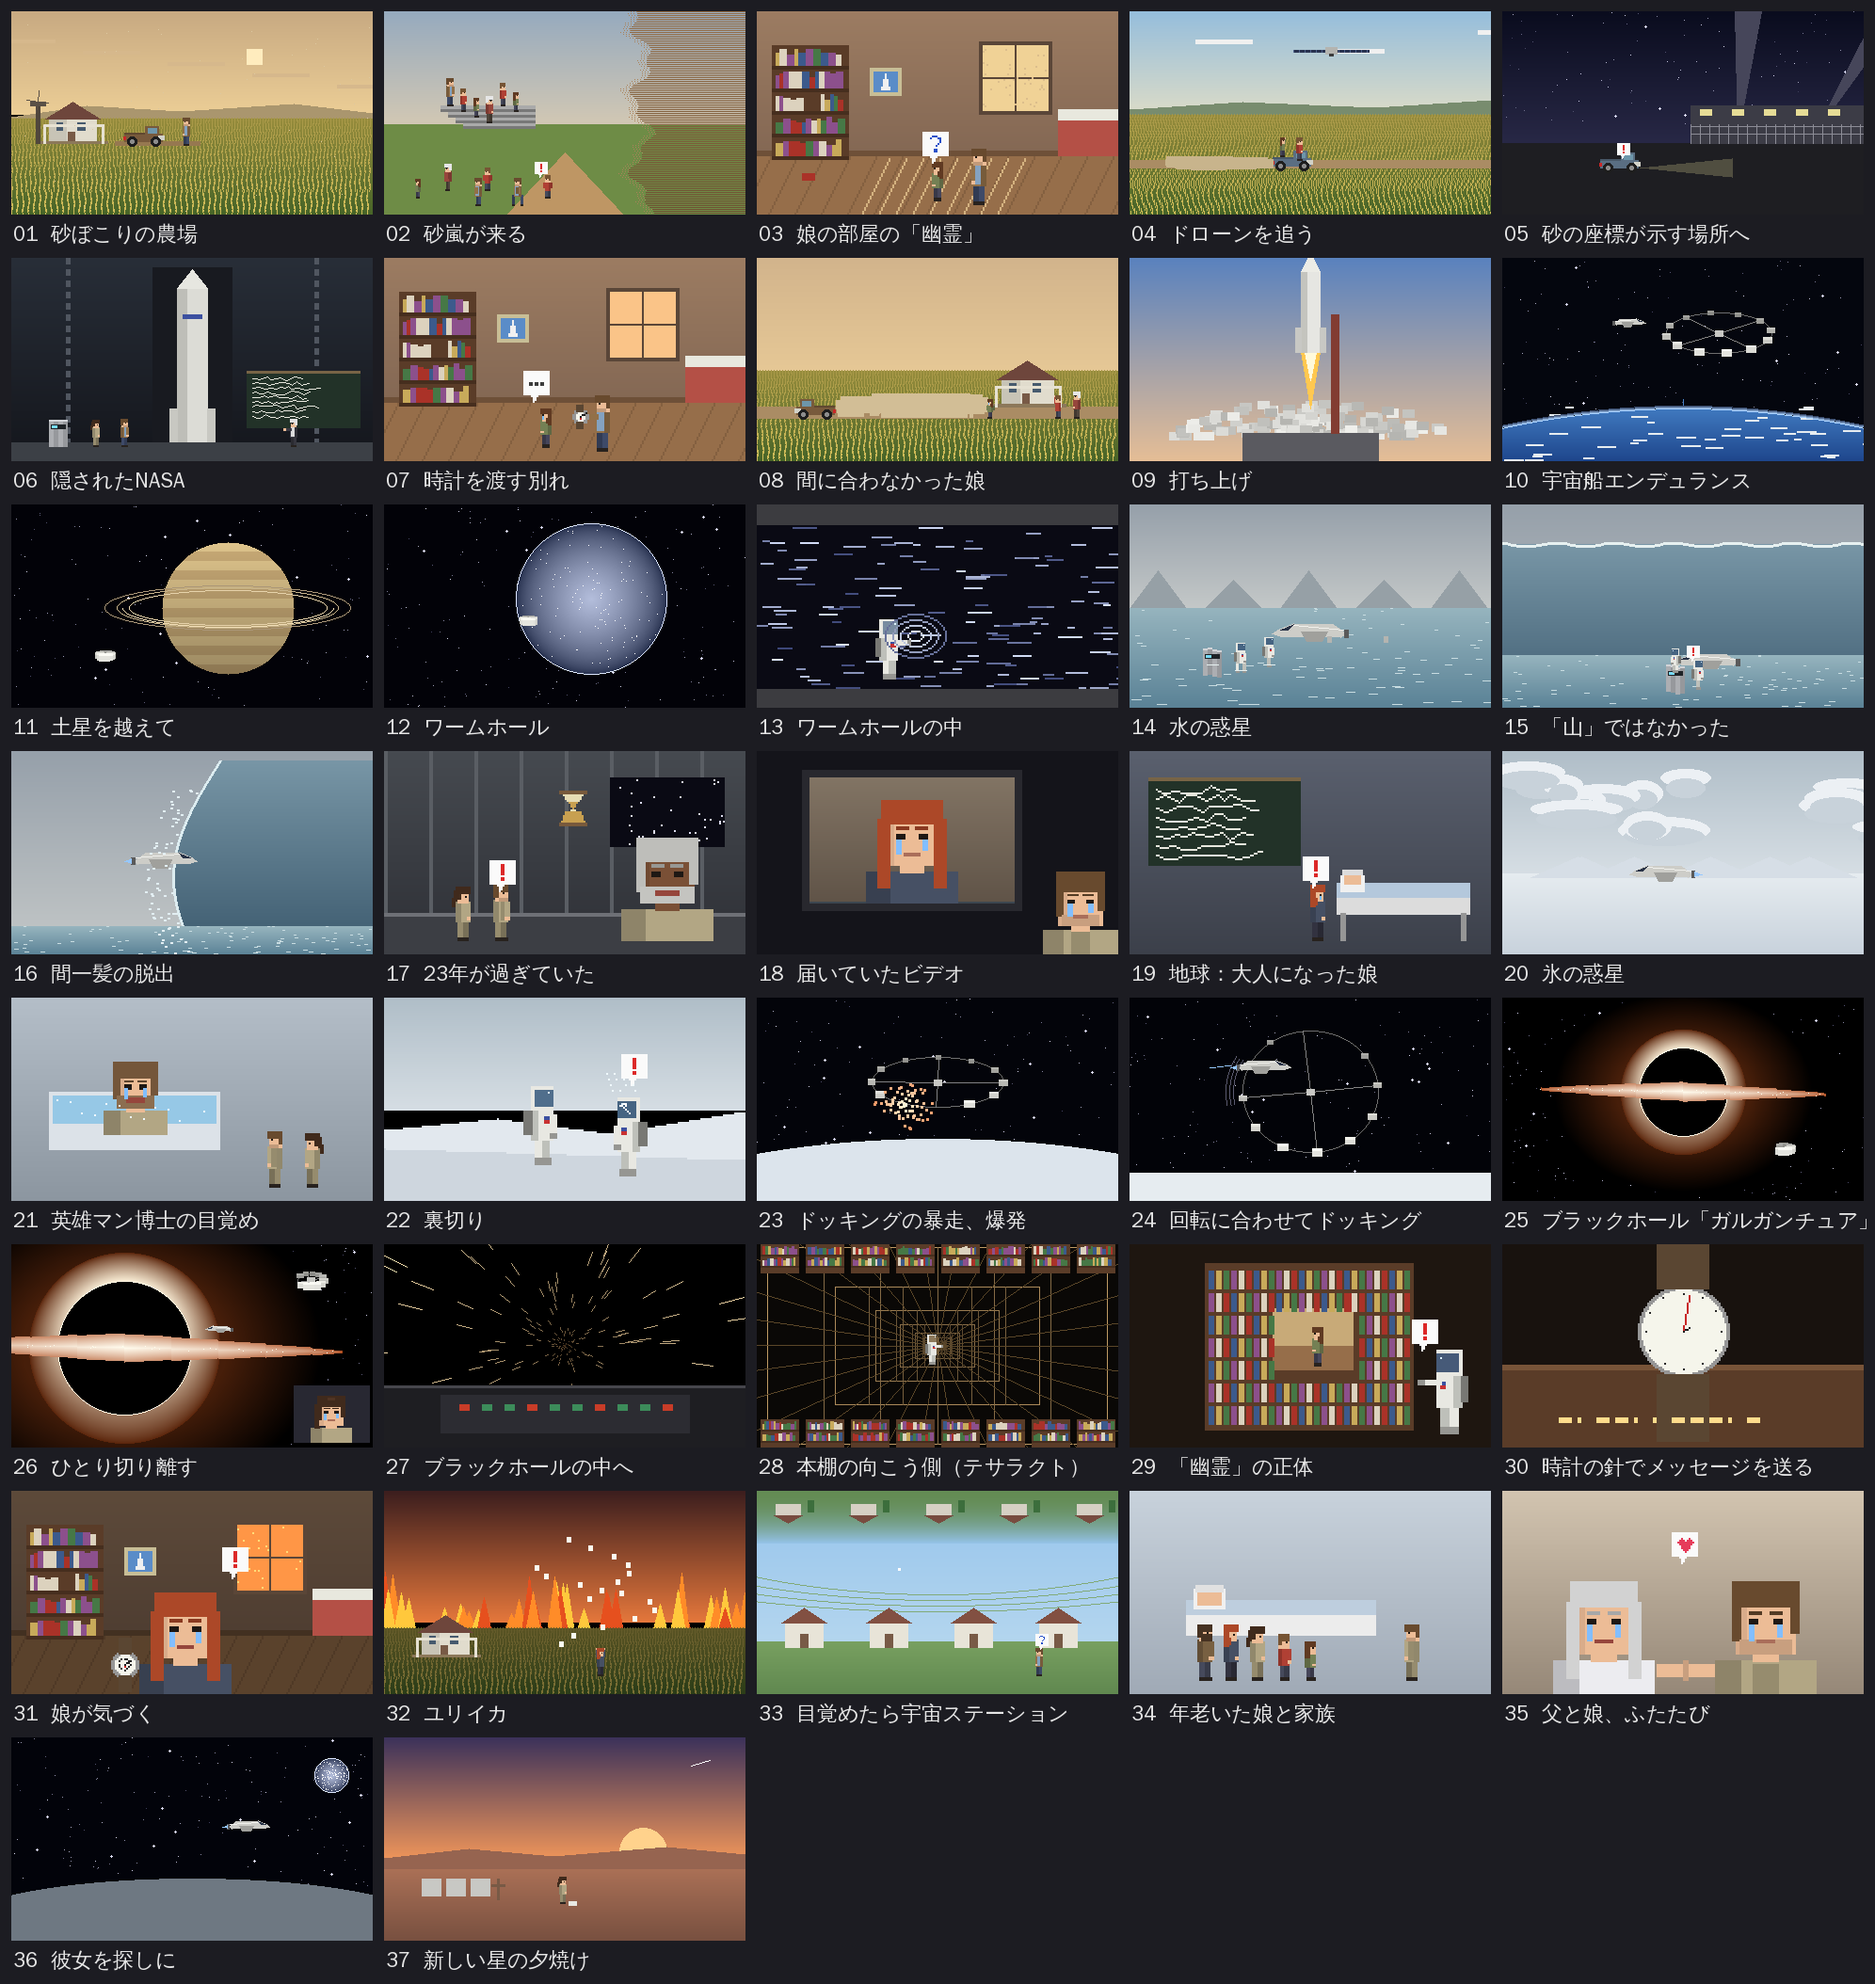
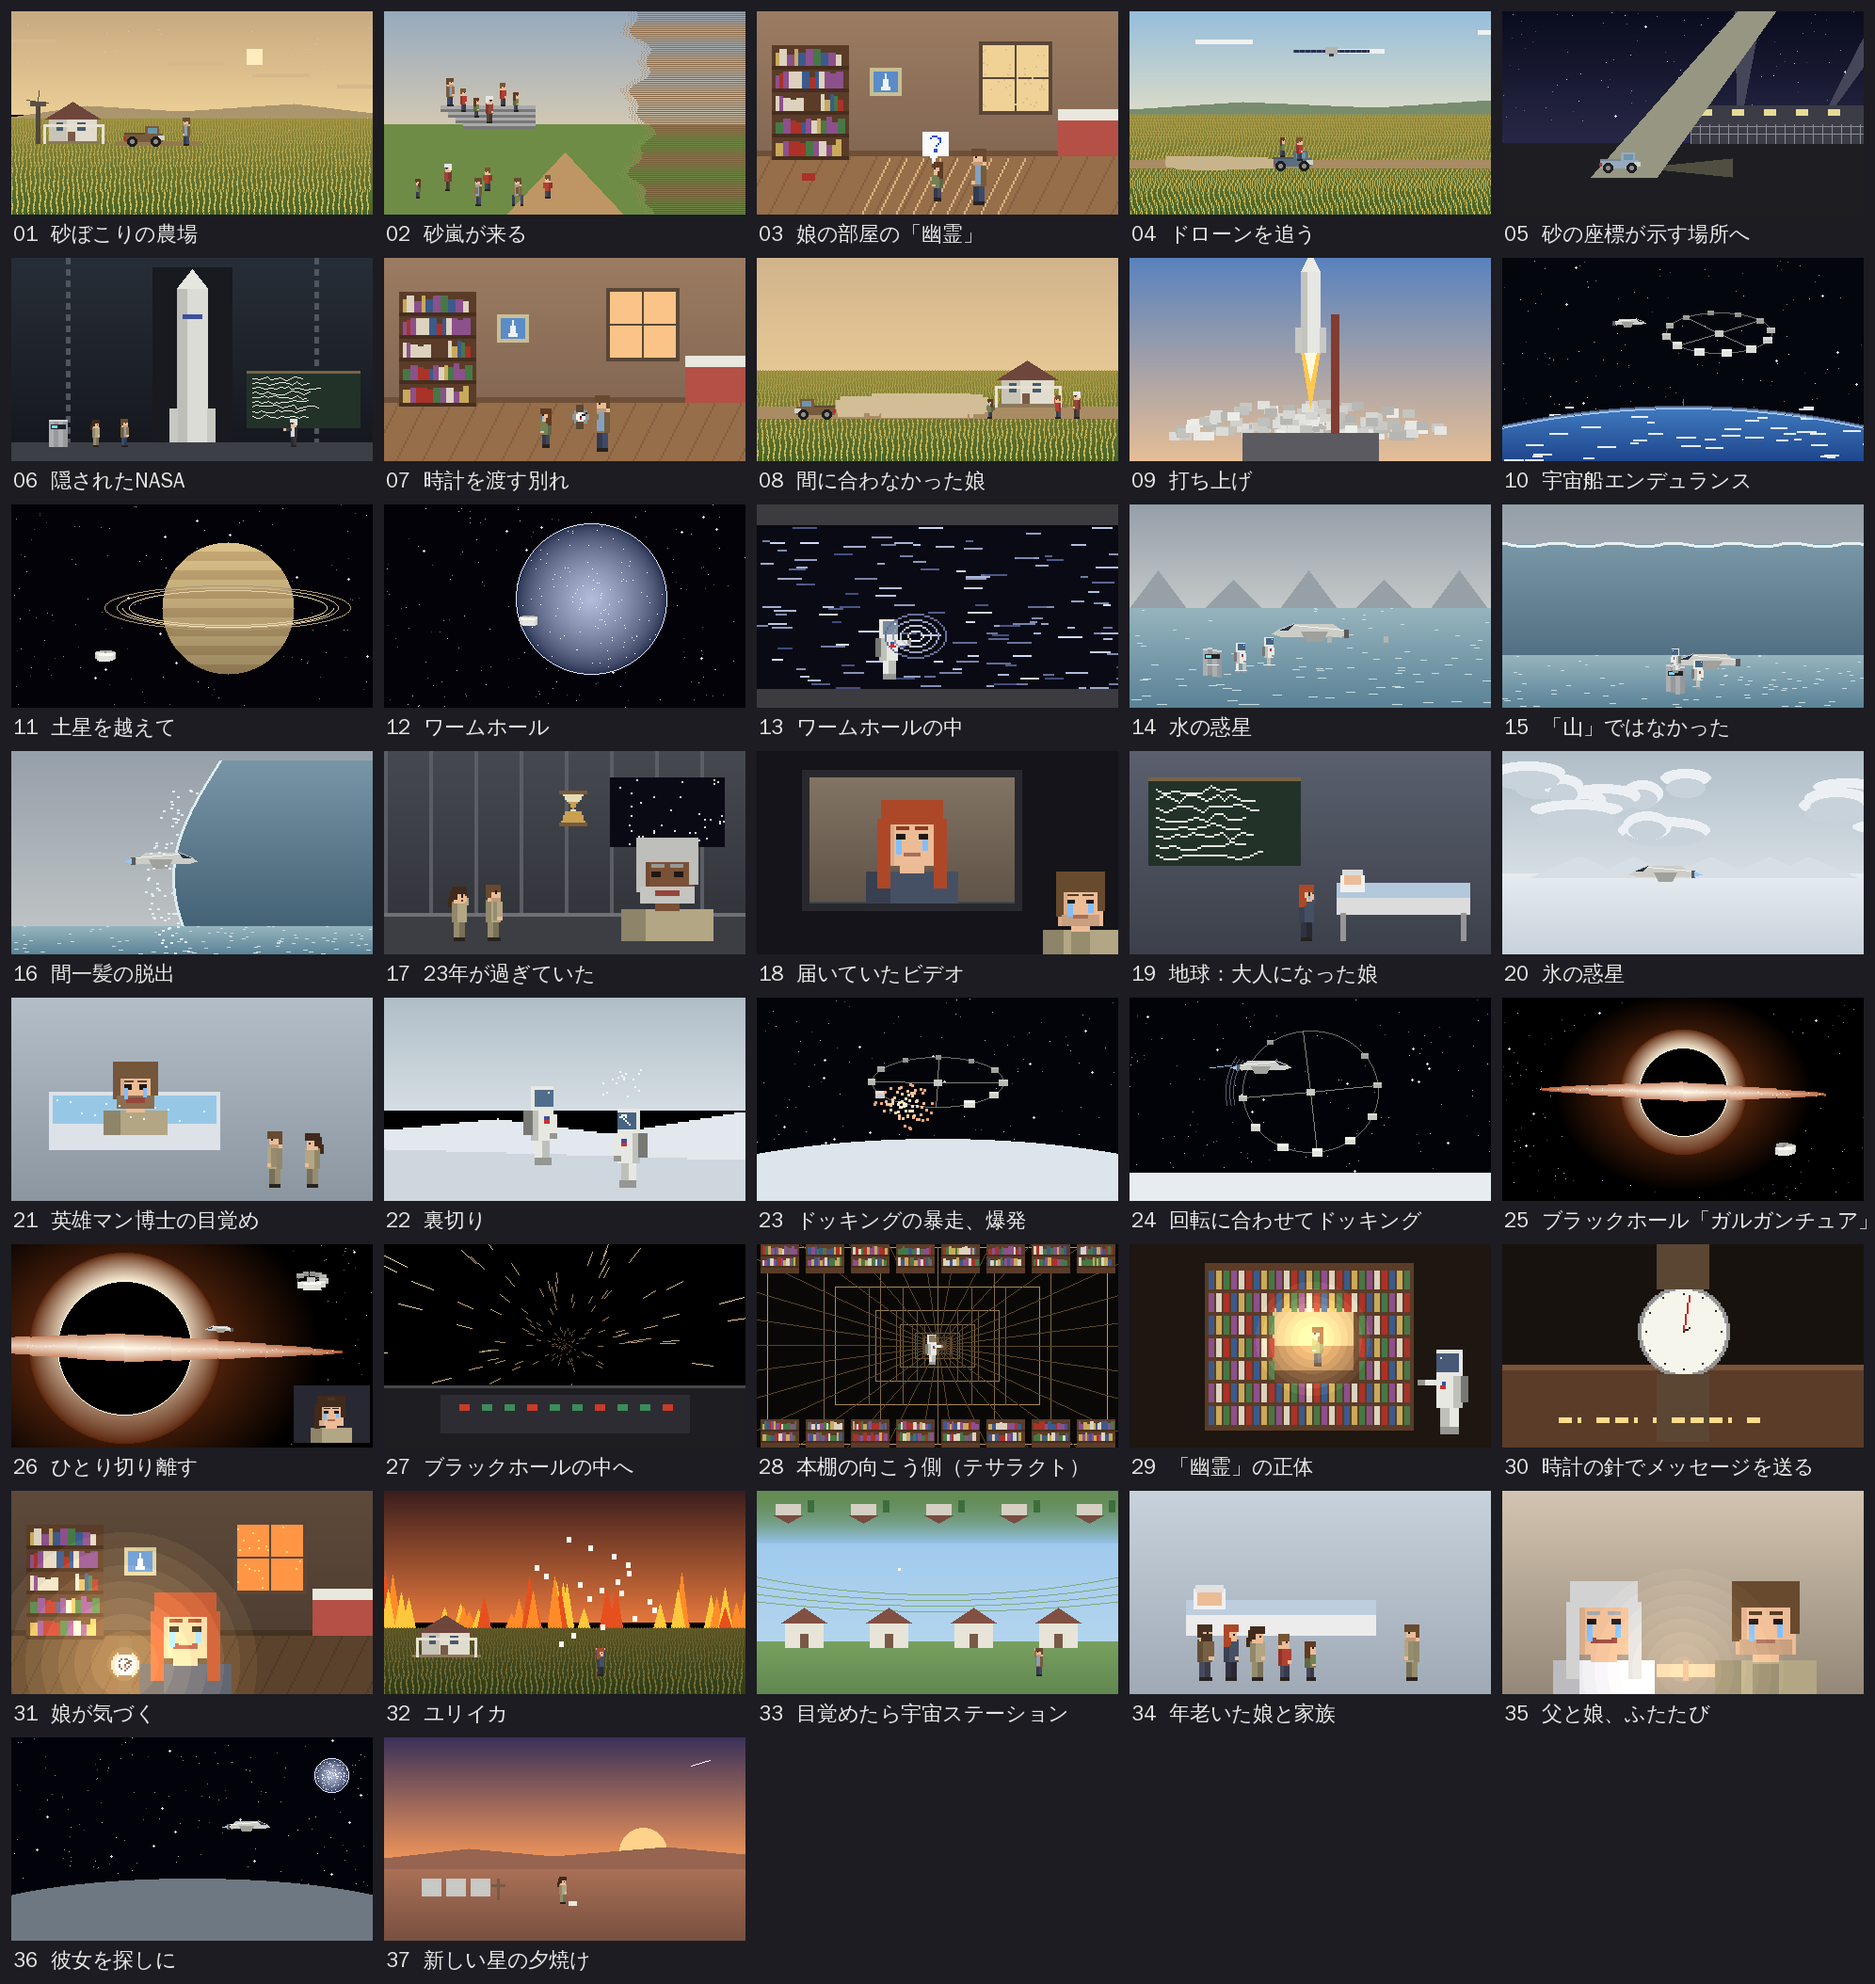
Interstellar: drop symbol bubbles for expressions, light, and camera shake
Claude-Session: https://claude.ai/code/session_0186sLp4kup135AngXnfFUNM

diff --git a/interstellar/common.py b/interstellar/common.py
@@ -56,7 +56,7 @@ CAST = {
     'donald':  dict(hair=(230, 230, 230), top=(150, 70, 60), bot=(80, 70, 60), h=28, glasses=True),
 }
 
-def person(d, x, y, who='cooper', face=1, pose='stand', f=0, beard=None, cry=False, tilt=0):
+def person(d, x, y, who='cooper', face=1, pose='stand', f=0, beard=None, cry=False, tilt=0, shock=False):
     """x = centre, y = feet."""
     c = CAST[who]; h = c['h']; s = h / 30
     sk = c.get('skin', SKIN); beard = beard or c.get('beard')
@@ -73,6 +73,9 @@ def person(d, x, y, who='cooper', face=1, pose='stand', f=0, beard=None, cry=Fal
         B(-2, 6, 6, 9, bot); B(4, 0, 6, 6, bot); B(4, 0, 7, 1, (40, 34, 30))
     elif pose == 'lie':
         return lie(d, x, y, who, face)
+    elif pose == 'kneel':
+        y = y + 6 * s; Y = lambda dy: y - dy * s
+        B(-2.5, 0, 4, 3, bot); B(-2.5, 3, -0.5, 6, bot)
     else:
         B(-2.5, 0, -0.5, 11, bot); B(0.5, 0, 2.5, 11, shade(bot, .8))
         B(-2.5, 0, -0.5, 1, (40, 34, 30)); B(0.5, 0, 3, 1, (40, 34, 30))
@@ -84,6 +87,10 @@ def person(d, x, y, who='cooper', face=1, pose='stand', f=0, beard=None, cry=Fal
         B(2.5, 19, 9, 17, top); B(9, 19, 10.5, 17, sk)
     elif pose == 'wave':
         B(2.5, 20, 4.5, 28, top); B(3, 28, 4.5, 30, sk)
+    elif pose == 'cover':
+        B(2.5, 20, 4.5, 23, top); B(1.5, 22.5, 4, 24.5, sk)
+    elif pose == 'shade':
+        B(2.5, 20, 4.5, 27, top); B(1.5, 27, 4.5, 28.5, sk)
     elif pose == 'arms_up':
         B(-5, 20, -3.5, 28, top); B(3.5, 20, 5, 28, top); B(-5, 28, -3.5, 30, sk); B(3.5, 28, 5, 30, sk)
     elif pose == 'run':
@@ -98,6 +105,7 @@ def person(d, x, y, who='cooper', face=1, pose='stand', f=0, beard=None, cry=Fal
     if c.get('long'): B(-3.5, hy - 3, -1.5, hy + 6, hair); B(-2, hy - 2, -1, hy + 1, hair)
     if c.get('ponytail'): B(-5, hy + 1, -3.5, hy + 6, hair); B(-5.5, hy - 2, -4.5, hy + 2, hair)
     d.point((X(1.6), Y(hy + 3.6)), fill=(30, 24, 20))
+    if shock: d.point((X(1.6), Y(hy + 4.6)), fill=(30, 24, 20)); d.point((X(1.8), Y(hy + 1)), fill=(90, 40, 40))
     if c.get('glasses'): B(0.5, hy + 4.2, 3, hy + 4.2, (40, 40, 40))
     if c.get('stubble') and not beard: B(-1, hy, 3, hy + 1, shade(sk, .82))
     if beard: B(-1.5, hy - 0.5, 3, hy + 2.5, beard)
@@ -316,7 +324,7 @@ def zroom(d, light=(240, 210, 150), dark=False, dust=0.0, t=0.0):
             x = 120 + r.randrange(34); y = 18 + (r.randrange(34) + t * 10 * r.random()) % 34
             d.point((x, y), fill=(220, 190, 140))
 
-def portrait(d, cx, by, who='cooper', s=1, cry=False, beard=None, grey=False, smile=False):
+def portrait(d, cx, by, who='cooper', s=1, cry=False, beard=None, grey=False, smile=False, shock=False, light=0.0):
     """Head-and-shoulders bust. cx = centre, by = bottom edge. ~ 26*s tall."""
     c = CAST[who]; hair = (210, 210, 210) if grey else c['hair']
     sk = c.get('skin', SKIN); beard = beard or c.get('beard')
@@ -332,7 +340,28 @@ def portrait(d, cx, by, who='cooper', s=1, cry=False, beard=None, grey=False, sm
     B(-4, 20, -1, 19.5, shade(hair, .8)); B(1, 20, 4, 19.5, shade(hair, .8))
     if c.get('glasses'): B(-5, 19, -1, 16, (40, 40, 40)); B(1, 19, 5, 16, (40, 40, 40)); B(-4, 18.5, -2, 16.5, (200, 220, 230)); B(2, 18.5, 4, 16.5, (200, 220, 230)); B(-1, 18, 1, 17.5, (40, 40, 40))
     if c.get('stubble') and not beard: B(-6, 10, 6, 13, shade(sk, .85))
-    if smile: B(-2, 13, 2, 12.5, (150, 70, 60))
+    if shock:
+        B(-5, 19.5, -1, 16, (250, 250, 250)); B(1, 19.5, 5, 16, (250, 250, 250))
+        B(-3.5, 18.5, -2, 17, (30, 24, 20)); B(2.5, 18.5, 4, 17, (30, 24, 20))
+        B(-4, 21.5, -1, 21, shade(hair, .8)); B(1, 21.5, 4, 21, shade(hair, .8))
+        B(-1.5, 14, 1.5, 11.5, (90, 40, 40))
+    elif smile: B(-3, 13, 3, 12.5, (150, 70, 60)); B(-3, 13.5, -2, 13, (150, 70, 60)); B(2, 13.5, 3, 13, (150, 70, 60))
     else: B(-2, 13, 2, 12.5, (170, 110, 90))
     if beard: B(-7, 10, 7, 14, beard); B(-3, 13, 3, 12, (150, 70, 60))
     if cry: B(-4, 16.5, -3, 13, (130, 190, 255)); B(3, 16.5, 4, 14, (130, 190, 255))
+    if light: B(-7, 25, 7, 10, None) if False else None
+
+
+def glow(im, cx, cy, r, col=(255, 220, 150), k=0.5):
+    """Soft additive light pool (used for 'realisation' moments instead of symbols)."""
+    from PIL import ImageChops
+    g = Image.new('RGB', im.size, (0, 0, 0)); gd = ImageDraw.Draw(g)
+    for n in range(8, 0, -1):
+        rr = r * n / 8
+        gd.ellipse([cx - rr, cy - rr, cx + rr, cy + rr], fill=shade(col, k * (1 - n / 9)))
+    return ImageChops.add(im, g)
+
+def shake(im, amt, seed):
+    if amt <= 0: return im
+    r = random.Random(seed); dx, dy = r.randint(-amt, amt), r.randint(-amt, amt)
+    out = Image.new('RGB', im.size, (0, 0, 0)); out.paste(im, (dx, dy)); return out

diff --git a/interstellar/act4.py b/interstellar/act4.py
@@ -31,8 +31,9 @@ def s29_behind(t):                    # behind the shelf: the "ghost" was him
     push = clamp((t - 2) / 1.5)
     R(d, 120 - push * 6, 26, 123 - push * 6, 35, (170, 50, 40))
     astro(d, 170, 100, -1, 'reach', visor=(70, 90, 120), s=1.4)
-    if t > 4: bubble(d, 150, 40, '!')
-    return up(im)
+    im = up(im)
+    if t > 4: im = glow(im, 194, 100, 90 * clamp((t - 4) / 1.5), (255, 210, 130), 0.55)
+    return im
 
 def s30_watch(t):                     # the second hand ticks in Morse
     im, d = zcanvas((24, 18, 14))
@@ -52,10 +53,11 @@ def s31_eureka(t):                    # grown Murph understands
     zroom(d, light=(255, 150, 70), dark=True)
     r = random.Random(int(t * 8))
     for k in range(20): d.point((120 + r.randrange(34), 18 + r.randrange(34)), fill=(255, 220, 120))
-    portrait(d, 92, 108, 'murphA', 2, cry=t > 3, smile=t > 6)
+    portrait(d, 92, 108, 'murphA', 2, cry=t > 3, smile=t > 6, shock=3 < t <= 6)
     watch(d, 60, 92, 5, ang=t * 4)
-    if t > 4: bubble(d, 112, 30, '!')
-    return up(im)
+    im = up(im)
+    if t > 4: im = glow(im, 120, 184, 140 * clamp((t - 4) / 2), (255, 200, 120), 0.5)
+    return im
 
 def s32_papers(t):                    # papers in the air, the corn on fire
     im, d = canvas(); grad(d, 0, 140, (60, 30, 30), (230, 120, 60))
@@ -87,7 +89,7 @@ def s33_station(t):                   # Cooper Station: the world curves overhea
         R(d, x + 16, 152, x + 24, 166, (120, 90, 70))
     bx, by = 60 + t * 30, 150 - math.sin(t * 0.8) * 100
     R(d, bx, by, bx + 2, by + 2, (255, 255, 255))
-    person(d, 300, 196, 'cooper', -1); bubble(d, 296, 152, '?')
+    person(d, 300, 196, 'cooper', -1, 'shade', shock=True)
     return im
 
 def s34_family(t):                    # old Murph, surrounded by her family
@@ -108,8 +110,9 @@ def s35_hands(t):                     # father, younger than his daughter
     portrait(d, 54, 108, 'murphO', 2.2, grey=True, cry=t > 2, smile=t > 6)
     portrait(d, 140, 108, 'cooperS', 2.2, cry=t > 2)
     R(d, 82, 92, 112, 98, SKIN); R(d, 96, 90, 98, 100, shade(SKIN, .85))
-    if t > 7: bubble(d, 90, 22, 'heart')
-    return up(im)
+    im = up(im)
+    if t > 6: im = glow(im, 192, 190, 160 * clamp((t - 6) / 3), (255, 220, 170), 0.22)
+    return im
 
 def s36_depart(t):                    # he takes a ship and goes to find her
     im, d = canvas((2, 3, 10)); stars(d, 36, 200)

diff --git a/interstellar/act2.py b/interstellar/act2.py
@@ -80,7 +80,6 @@ def s15_wave(t):                      # those aren't mountains...
     ranger(d, 250, 170, 1.2, -1)
     astro(d, 190 + t * 3, 196, 1, 'run', f=t * 8)
     tars(d, 150 + t * 4, 200, f=t * 10, walk=True); astro(d, 160 + t * 4, 178, -1, s=0.8)
-    if t > 1: bubble(d, 196, 150, '!')
     return im
 
 def s16_escape(t):                    # liftoff as the wave breaks
@@ -114,8 +113,8 @@ def stars_box(d, x0, y0, x1, y1, seed=2):
 def s17_23years(t):                   # back aboard: Romilly has aged 23 years
     im, d = zcanvas(); ship_interior(d)
     portrait(d, 150, 100, 'romillyO', 2)
-    person(d, 62, 100, 'cooperS', 1); person(d, 42, 100, 'brand', 1)
-    if t > 3: bubble(d, 56, 58, '!')
+    person(d, 62 - clamp((t - 2) / 1) * 4, 100, 'cooperS', 1, shock=t > 2)
+    person(d, 40, 100, 'brand', 1, 'cover' if t > 2.5 else 'stand', shock=t > 2)
     # hourglass
     hx, hy = 100, 30
     d.polygon([(hx - 6, hy - 8), (hx + 6, hy - 8), (hx, hy)], fill=(230, 220, 180)); d.polygon([(hx - 6, hy + 8), (hx + 6, hy + 8), (hx, hy)], fill=(230, 220, 180))
@@ -147,8 +146,7 @@ def s19_murph(t):                     # on Earth: grown-up Murph at the professo
         d.line(pts, fill=(230, 230, 220))
     R(d, 110, 76, 180, 86, (220, 220, 220)); R(d, 110, 70, 180, 77, (180, 200, 220)); R(d, 112, 86, 114, 100, (150, 150, 150)); R(d, 176, 86, 178, 100, (150, 150, 150))
     R(d, 112, 66, 124, 74, (240, 240, 240)); R(d, 114, 64, 122, 70, SKIN); R(d, 113, 63, 123, 65, (220, 220, 220))
-    person(d, 100, 100, 'murphA', 1, cry=t > 5)
-    if t > 6: bubble(d, 92, 56, '!')
+    person(d, 100 - clamp((t - 5) / 1) * 6, 100, 'murphA', 1, 'cover' if t > 5 else 'stand', cry=t > 5, shock=t > 5)
     return up(im)
 
 SCENES = [

diff --git a/interstellar/act1.py b/interstellar/act1.py
@@ -31,7 +31,6 @@ def s02_dust(t):                      # the dust wall over the ball game
     for k in range(6):
         px = 200 + k * 16 - t * 18 * (k % 2 + 1)
         person(d, px, 190 + (k % 3) * 8, ['tom', 'murph', 'cooper', 'donald', 'tom', 'cooper'][k], -1, 'run', f=t * 8 + k)
-    bubble(d, 260 - t * 20, 160, '!')
     return im
 
 def s03_ghost(t):                     # Murph's room: fallen book, dust lines
@@ -76,7 +75,9 @@ def s05_coords(t):                    # following the dust coordinates to a secr
     tx = 40 + t * 8
     truck(d, tx, 170, 1, col=(90, 110, 130), f=t)
     d.polygon([(tx + 42, 166), (tx + 140, 156), (tx + 140, 176)], fill=(80, 78, 64))
-    if t > 6: bubble(d, tx + 18, 140, '!')
+    if t > 6:                                    # caught in a searchlight
+        d.polygon([(250, 0), (tx - 10, 176), (tx + 60, 176), (290, 0)], fill=(150, 150, 130))
+        truck(d, tx, 170, 1, col=(150, 170, 190), f=t)
     return im
 
 def s06_nasa(t):                      # NASA hidden in a silo; the professor's plan
@@ -107,7 +108,6 @@ def s07_goodbye(t):                   # the watch, the turned back
     person(d, 116, 102, 'cooper', -1, 'give' if t < 7 else 'stand')
     if t < 7: watch(d, 104, 84, 2)
     else: watch(d, 176, 54, 2, ang=t)            # left on the bed
-    if t > 2: bubble(d, 74, 60, '...')
     return up(im)
 
 def s08_leave(t):                     # driving off; she runs out too late

diff --git a/interstellar/act3.py b/interstellar/act3.py
@@ -32,11 +32,11 @@ def s22_betrayal(t):                  # on the ridge: Mann turns on Cooper
     d.polygon([(0, 80), (192, 86), (192, 108), (0, 108)], fill=(206, 214, 222))
     shove = clamp((t - 3) / 1.5)
     astro(d, 90 - shove * 6, 88, 1, 'reach' if t < 6 else 'stand', visor=(80, 110, 140), s=1.3)
-    astro(d, 116 + shove * 14, 88 + shove * 6, -1, 'stand', visor=(70, 100, 130), crack=t > 5, s=1.3)
-    if t > 5:
-        for k in range(14): d.point((112 + shove * 14 + (k * 5) % 16 - 8, 40 + (k * 3) % 12), fill=(240, 250, 255))
-        bubble(d, 112 + shove * 14, 30, '!')
-    return up(im)
+    astro(d, 116 + shove * 14, 88 + shove * 6 + (6 if t > 5 else 0), -1, 'stand', visor=(70, 100, 130), crack=t > 5, s=1.3)
+    if t > 5:                                    # air hissing out of the cracked visor
+        r = random.Random(int(t * 12))
+        for k in range(18): d.point((112 + shove * 14 + r.randint(-10, 10), 46 + r.randint(-8, 6)), fill=(240, 250, 255))
+    return shake(up(im), 3 if 3.2 < t < 3.8 or 5 < t < 5.4 else 0, int(t * 24))
 
 def boom(d, cx, cy, k, seed=1):
     r = random.Random(seed)
